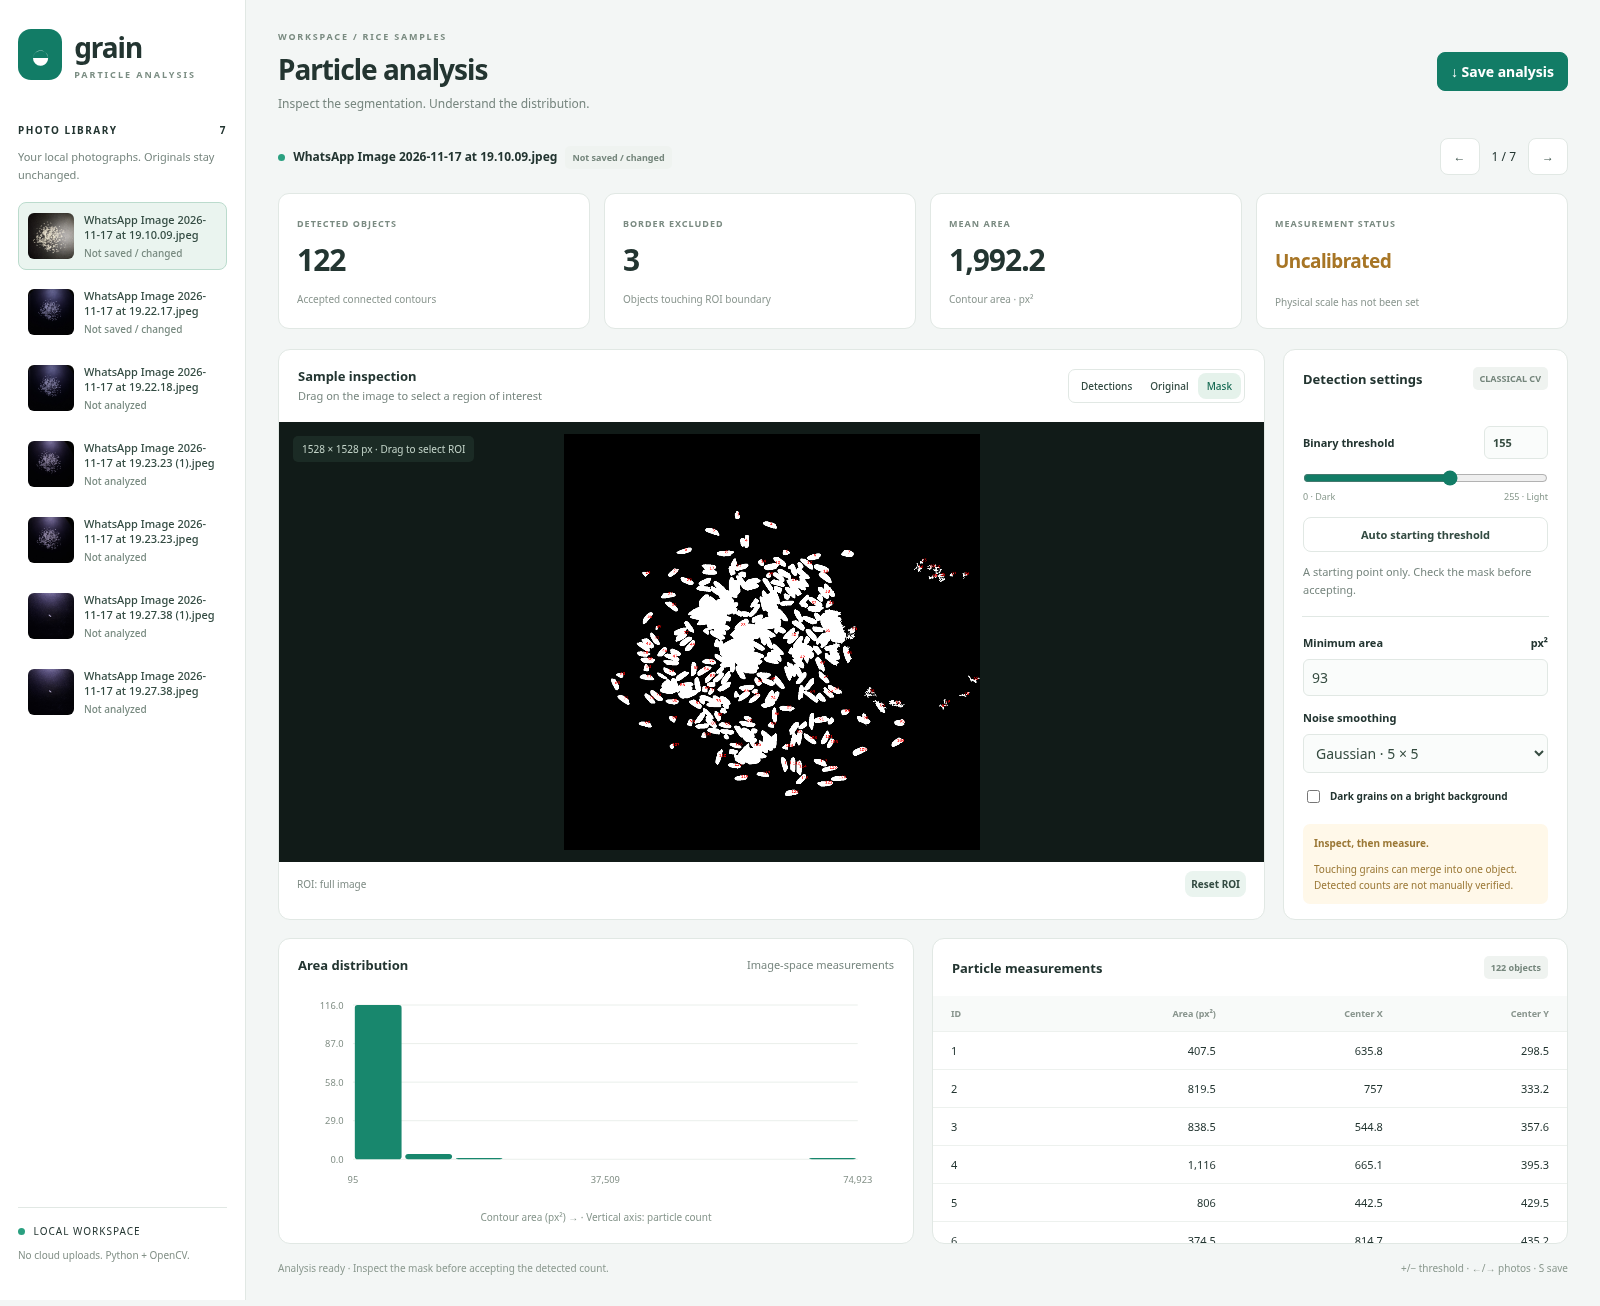
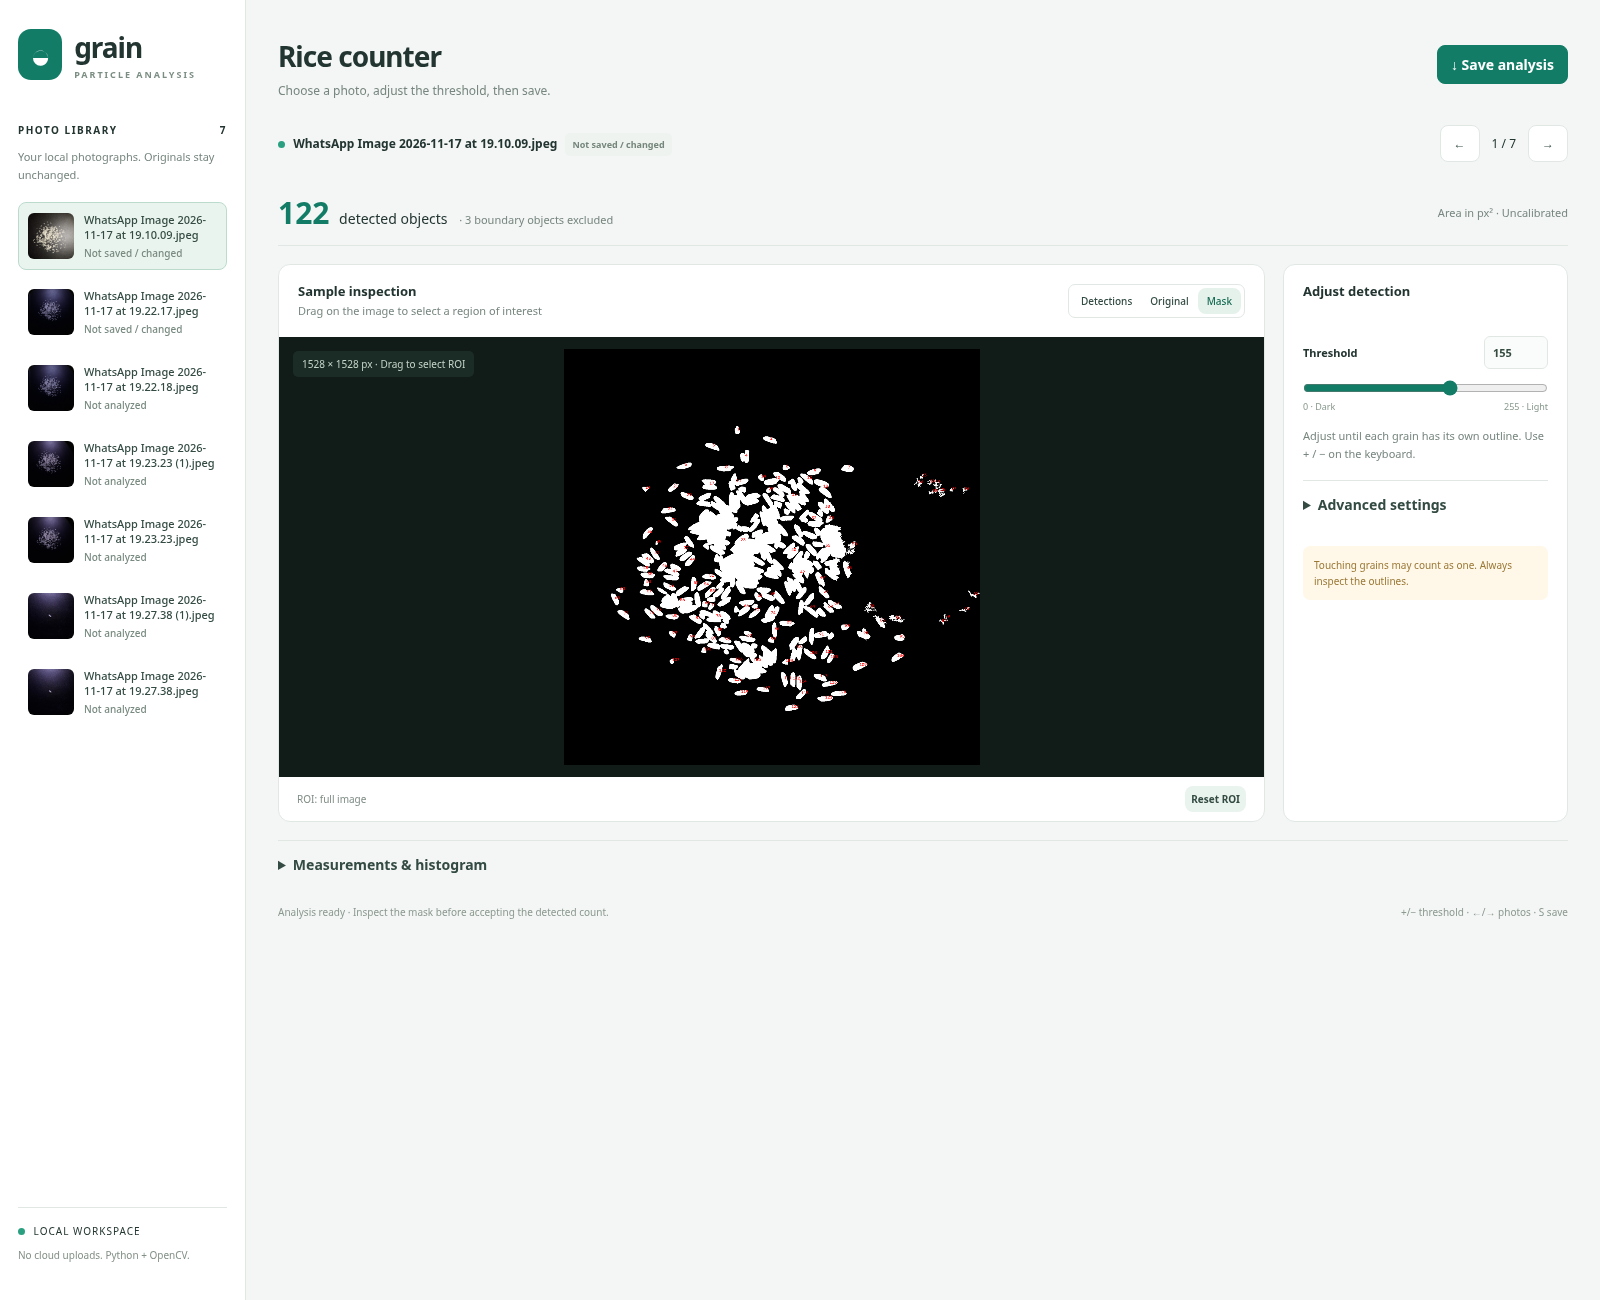
Enhance browser smoke tests and update web interface for rice counter functionality

diff --git a/Project/web/style.css b/Project/web/style.css
@@ -1,1 +1,13 @@
+.count-summary{display:flex;align-items:center;justify-content:space-between;gap:12px;flex-wrap:wrap;margin-bottom:18px;padding:12px 0;border-bottom:1px solid #e1e8e4}
+.count-summary strong{font-size:30px;color:#127c66;margin-right:6px}
+.count-summary .small{margin-left:8px}
+details>summary{cursor:pointer;font-weight:600;padding:14px 0;color:#334b42}
+summary:focus-visible{outline:3px solid #75c9b5;outline-offset:2px}
+.controls details{margin:18px 19px 0;border-top:1px solid #e1e8e4}
+.advanced-fields>label{display:block;font-size:11px;font-weight:600;margin:14px 0 9px}
+.advanced-fields>input,.advanced-fields>select,.advanced-fields>.wide{width:100%}
+.advanced-fields .checkbox{display:flex;align-items:center}
+.measurement-details{margin-top:18px;border-top:1px solid #e1e8e4}
+.measurement-details>.small{margin:0 0 12px}
+.measurement-details .analysis-grid{margin-top:0}
 :root{font-family:Inter,ui-sans-serif,system-ui,sans-serif;color:#233531;background:#f3f6f5;font-size:14px;--accent:#127c66;--line:#e1e8e4}*{box-sizing:border-box}body{margin:0;display:flex}button,input,select{font:inherit}button{cursor:pointer;background:white;border:1px solid var(--line);border-radius:8px;padding:9px 13px;color:#334b42;font-weight:600}button:hover{background:#eaf4ef}button:disabled{opacity:.45;cursor:wait}button:focus-visible,input:focus-visible,select:focus-visible,canvas:focus-visible{outline:3px solid #75c9b5;outline-offset:2px}.primary{background:var(--accent);color:white;border-color:var(--accent)}.primary:hover{background:#096451}.sidebar{width:246px;flex-shrink:0;padding:28px 18px;background:#fff;border-right:1px solid var(--line);height:100vh;position:sticky;top:0;display:flex;flex-direction:column}.brand{display:flex;align-items:center;gap:12px;font-weight:750;font-size:28px;letter-spacing:-1px;margin-bottom:42px}.mark{background:var(--accent);color:white;border-radius:13px;padding:2px 12px;font-size:35px}.sub{display:block;font-size:9px;letter-spacing:2px;color:#7c8e84;margin-top:2px}.library-heading{font-size:10px;letter-spacing:1.5px;font-weight:750;display:flex;justify-content:space-between}.muted{color:#77867f}.small{font-size:11px;line-height:1.6}nav{overflow:auto;flex:1;margin-top:8px}.photo{width:100%;display:flex;align-items:center;text-align:left;gap:10px;padding:9px;margin-bottom:8px;border-color:transparent;font-weight:500}.photo.selected{background:#eaf4ef;border-color:#bbdbcd}.photo img{width:46px;height:46px;object-fit:cover;border-radius:6px;background:#12231c}.photo .name{display:block;font-size:11px;word-break:break-word}.photo .state{display:block;font-size:10px;color:#788a80;margin-top:4px}.sidebar-note{font-size:10px;letter-spacing:1px;padding-top:16px;border-top:1px solid var(--line)}.sidebar-note p{font-size:10px;color:#839087;letter-spacing:0}.dot{display:inline-block;width:7px;height:7px;background:#2aa080;border-radius:50%;margin-right:5px}main{padding:30px 32px;width:calc(100% - 246px);max-width:1800px}header{display:flex;justify-content:space-between;align-items:center;margin-bottom:26px}.eyebrow{font-size:9px;letter-spacing:1.8px;color:#7a8b81;font-weight:650}h1{font-size:28px;letter-spacing:-1px;margin:7px 0}header p{margin:0;font-size:12px}.photo-bar{display:flex;align-items:center;justify-content:space-between;margin-bottom:18px;font-size:12px;gap:10px}.photo-bar strong{word-break:break-word}.photo-bar>div:last-child{display:flex;align-items:center;gap:12px;white-space:nowrap}.badge{font-size:9px;font-weight:650;background:#eff3f0;color:#75867c;border-radius:5px;padding:5px 7px;margin-left:8px;white-space:nowrap}.metrics{display:grid;grid-template-columns:repeat(4,1fr);gap:14px;margin-bottom:20px}.metrics article{background:white;border:1px solid var(--line);border-radius:11px;padding:18px}.metrics article>span{font-size:9px;letter-spacing:1px;color:#7b8b82;font-weight:700}.metrics strong{display:block;font-size:30px;font-weight:650;letter-spacing:-1px;margin:8px 0}.metrics small{font-size:10px;color:#8a968f}.metrics .calibration{font-size:19px;color:#a77525;letter-spacing:-.5px;margin:17px 0}.workspace{display:grid;grid-template-columns:minmax(0,1fr) 285px;gap:18px}.panel{background:white;border:1px solid var(--line);border-radius:12px;overflow:hidden}.panel-heading{display:flex;align-items:center;justify-content:space-between;padding:17px 19px;gap:10px}h2{margin:0;font-size:13px;font-weight:650}.tabs{display:flex;border:1px solid var(--line);padding:3px;border-radius:7px}.tabs button{border:0;padding:6px 9px;font-size:10px;font-weight:500}.tabs button.active{background:#e5f2eb;color:#176b54}.image-stage{height:440px;background:#111b18;display:flex;align-items:center;justify-content:center;position:relative;padding:12px}canvas{max-width:100%;max-height:100%;object-fit:contain;touch-action:none;cursor:crosshair}#imageHint{position:absolute;top:14px;left:14px;color:#c3d4c9;background:#1e3029c9;padding:6px 9px;border-radius:5px;font-size:10px;pointer-events:none}.viewer-footer{display:flex;align-items:center;justify-content:space-between;padding:9px 18px;color:#7f8c85;font-size:10px}.viewer-footer button{font-size:10px;border:0;padding:6px}.controls{padding-bottom:15px}.controls>.panel-heading{padding-bottom:22px}.controls>label,.controls>input,.controls>select,.controls>button,.controls>p,.controls>.range-labels,.controls>.tip{margin-left:19px;margin-right:19px}.controls>label{display:flex;justify-content:space-between;align-items:center;font-size:11px;font-weight:600;margin-bottom:9px;margin-top:14px}.controls>input:not([type=checkbox]),.controls>select{width:calc(100% - 38px)}input[type=number],select{border:1px solid var(--line);border-radius:6px;padding:8px;background:#fafcfb;color:#364c41}#thresholdNumber{width:64px;font-size:11px}input[type=range]{accent-color:var(--accent);cursor:pointer}.range-labels{display:flex;justify-content:space-between;font-size:9px;color:#88998d;margin-bottom:14px}.wide{width:calc(100% - 38px);font-size:11px}.controls hr{border:0;border-top:1px solid var(--line);margin:18px}.checkbox{justify-content:flex-start!important;gap:7px;font-size:10px!important;line-height:1.5}.checkbox input{accent-color:var(--accent)}.tip{background:#fff8e9;color:#9b7836;border-radius:7px;padding:11px;font-size:10px;line-height:1.6;margin-top:18px}.tip p{margin-bottom:0}.analysis-grid{display:grid;grid-template-columns:1fr 1fr;gap:18px;margin-top:18px}#histogram{width:100%;height:215px;padding:0 18px}.chart-label{font-size:10px;color:#85958b;text-align:center;margin:0 0 16px}.table-scroll{height:247px;overflow:auto}table{width:100%;border-collapse:collapse;font-size:11px}th{text-align:right;color:#89958e;background:#f8faf9;position:sticky;top:0;font-size:9px;font-weight:600}td,th{padding:11px 18px;border-bottom:1px solid #edf1ee}td{text-align:right;font-variant-numeric:tabular-nums}td:first-child,th:first-child{text-align:left}footer{display:flex;justify-content:space-between;gap:15px;font-size:10px;color:#8b998f;margin-top:17px;line-height:1.5}#status.error{color:#b34d32}#status.busy{color:var(--accent)}@media(max-width:1100px){.sidebar{width:200px}main{width:calc(100% - 200px);padding:22px 18px}.workspace{grid-template-columns:minmax(0,1fr) 250px}.panel-heading{flex-wrap:wrap}.metrics{gap:8px}.metrics article{padding:12px}.image-stage{height:400px}}@media(max-width:800px){body{display:block}.sidebar{position:static;width:100%;height:auto;padding:16px}.brand{margin-bottom:15px}nav{display:flex;max-height:120px}.photo{min-width:180px}.sidebar-note{display:none}main{width:100%;padding:16px}.workspace,.analysis-grid{grid-template-columns:1fr}.metrics{grid-template-columns:1fr 1fr}header{gap:15px}.photo-bar{flex-wrap:wrap}footer{flex-wrap:wrap}}

diff --git a/Project/web/index.html b/Project/web/index.html
@@ -4,11 +4,11 @@
 <aside class="sidebar"><div class="brand"><span class="mark">◒</span><div>grain<span class="sub">PARTICLE ANALYSIS</span></div></div>
 <div class="library-heading">PHOTO LIBRARY <span id="photoCount">0</span></div><p class="muted small">Your local photographs. Originals stay unchanged.</p><nav id="photos" aria-label="Photo library"></nav>
 <div class="sidebar-note"><span class="dot"></span> LOCAL WORKSPACE<p>No cloud uploads. Python + OpenCV.</p></div></aside>
-<main><header><div><div class="eyebrow">WORKSPACE / RICE SAMPLES</div><h1>Particle analysis</h1><p class="muted">Inspect the segmentation. Understand the distribution.</p></div><button id="save" class="primary" disabled>↓ Save analysis</button></header>
+<main><header><div><h1>Rice counter</h1><p class="muted">Choose a photo, adjust the threshold, then save.</p></div><button id="save" class="primary" disabled>↓ Save analysis</button></header>
 <div class="photo-bar"><div><span class="dot"></span> <strong id="filename">Loading photographs…</strong><span id="saveState" class="badge">Not saved</span></div><div><button id="previous" aria-label="Previous photo">←</button><span id="position"></span><button id="next" aria-label="Next photo">→</button></div></div>
-<section class="metrics" aria-label="Analysis summary"><article><span>DETECTED OBJECTS</span><strong id="count">—</strong><small>Accepted connected contours</small></article><article><span>BORDER EXCLUDED</span><strong id="border">—</strong><small>Objects touching ROI boundary</small></article><article><span>MEAN AREA</span><strong id="mean">—</strong><small>Contour area · px²</small></article><article><span>MEASUREMENT STATUS</span><strong class="calibration">Uncalibrated</strong><small>Physical scale has not been set</small></article></section>
+<section class="count-summary" aria-label="Analysis summary"><div><strong id="count">—</strong> detected objects <span class="muted small">· <span id="border">—</span> boundary objects excluded</span></div><span class="muted small">Area in px² · Uncalibrated</span></section>
 <div class="workspace"><section class="panel viewer"><div class="panel-heading"><div><h2>Sample inspection</h2><span class="muted small">Drag on the image to select a region of interest</span></div><div class="tabs" role="group" aria-label="Image view"><button class="active" data-view="overlay">Detections</button><button data-view="original">Original</button><button data-view="mask_numbered">Mask</button></div></div><div class="image-stage"><canvas id="viewer" aria-label="Rice image; drag to select ROI"></canvas><span id="imageHint">Loading image…</span></div><div class="viewer-footer"><span id="roiLabel">ROI: full image</span><button id="reset">Reset ROI</button></div></section>
-<section class="panel controls"><div class="panel-heading"><h2>Detection settings</h2><span class="badge">CLASSICAL CV</span></div><label for="threshold">Binary threshold <input id="thresholdNumber" aria-label="Threshold value" type="number" min="0" max="255" value="127"></label><input id="threshold" type="range" min="0" max="255" value="127"><div class="range-labels"><span>0 · Dark</span><span>255 · Light</span></div><button id="auto" class="wide">Auto starting threshold</button><p class="muted small">A starting point only. Check the mask before accepting.</p><hr><label for="minimum">Minimum area <span>px²</span></label><input id="minimum" type="number" min="0" step="10" value="374"><label for="blur">Noise smoothing</label><select id="blur"><option value="0">None</option><option value="3">Gaussian · 3 × 3</option><option value="5" selected>Gaussian · 5 × 5</option><option value="7">Gaussian · 7 × 7</option></select><label class="checkbox"><input type="checkbox" id="invert"> Dark grains on a bright background</label><div class="tip"><strong>Inspect, then measure.</strong><p>Touching grains can merge into one object. Detected counts are not manually verified.</p></div></section></div>
-<div class="analysis-grid"><section class="panel"><div class="panel-heading"><h2>Area distribution</h2><span class="muted small">Image-space measurements</span></div><svg id="histogram" viewBox="0 0 600 230" role="img" aria-label="Histogram of particle contour areas"></svg><p class="chart-label">Contour area (px²) → · Vertical axis: particle count</p></section><section class="panel"><div class="panel-heading"><h2>Particle measurements</h2><span id="rowCount" class="badge">0 objects</span></div><div class="table-scroll"><table><thead><tr><th>ID</th><th>Area (px²)</th><th>Center X</th><th>Center Y</th></tr></thead><tbody id="results"></tbody></table></div></section></div>
+<section class="panel controls"><div class="panel-heading"><h2>Adjust detection</h2></div><label for="threshold">Threshold <input id="thresholdNumber" aria-label="Threshold value" type="number" min="0" max="255" value="127"></label><input id="threshold" type="range" min="0" max="255" value="127"><div class="range-labels"><span>0 · Dark</span><span>255 · Light</span></div><p class="muted small">Adjust until each grain has its own outline. Use + / − on the keyboard.</p><details id="advanced"><summary>Advanced settings</summary><div class="advanced-fields"><button id="auto" class="wide">Auto starting threshold</button><p class="muted small">A starting point only. Check the mask.</p><label for="minimum">Minimum area (px²)</label><input id="minimum" type="number" min="0" step="10" value="374"><label for="blur">Noise smoothing</label><select id="blur"><option value="0">None</option><option value="3">Gaussian · 3 × 3</option><option value="5" selected>Gaussian · 5 × 5</option><option value="7">Gaussian · 7 × 7</option></select><label class="checkbox"><input type="checkbox" id="invert"> Dark grains on a bright background</label></div></details><div class="tip">Touching grains may count as one. Always inspect the outlines.</div></section></div>
+<details id="measurements" class="measurement-details"><summary>Measurements &amp; histogram</summary><p class="muted small">Mean contour area: <strong id="mean">—</strong> px² · No physical calibration</p><div class="analysis-grid"><section class="panel"><div class="panel-heading"><h2>Area distribution</h2><span class="muted small">Image-space measurements</span></div><svg id="histogram" viewBox="0 0 600 230" role="img" aria-label="Histogram of particle contour areas"></svg><p class="chart-label">Contour area (px²) → · Vertical axis: particle count</p></section><section class="panel"><div class="panel-heading"><h2>Particle measurements</h2><span id="rowCount" class="badge">0 objects</span></div><div class="table-scroll"><table><thead><tr><th>ID</th><th>Area (px²)</th><th>Center X</th><th>Center Y</th></tr></thead><tbody id="results"></tbody></table></div></section></div></details>
 <footer><span id="status" role="status" aria-live="polite">Connecting to local analysis server…</span><span>+/− threshold · ←/→ photos · S save</span></footer>
 </main><script src="/app.js"></script></body></html>

diff --git a/Project/browser_smoke.py b/Project/browser_smoke.py
@@ -13,7 +13,19 @@ def main():
         page.goto("http://127.0.0.1:8765")
         page.wait_for_function("document.querySelector('#status').textContent.startsWith('Analysis ready')")
         assert page.locator(".photo").count() == 7
+        assert not page.locator("#advanced").evaluate("el => el.open")
+        assert not page.locator("#measurements").evaluate("el => el.open")
+        assert page.locator("#threshold").is_visible()
+        assert not page.locator("#minimum").is_visible()
+        assert not page.locator("#histogram").is_visible()
+        page.locator("#advanced > summary").click()
+        assert page.locator("#minimum").is_visible()
         assert page.locator("#minimum").input_value() == "93"
+        page.locator("#advanced > summary").click()
+        page.locator("#measurements > summary").click()
+        assert page.locator("#histogram").is_visible()
+        assert page.locator("#results").is_visible()
+        page.locator("#measurements > summary").click()
         initial = page.locator("#thresholdNumber").input_value()
         page.locator("h1").click()
         page.keyboard.press("+")
@@ -43,7 +55,7 @@ def main():
         page.set_viewport_size({"width":390,"height":844})
         assert page.evaluate("document.documentElement.scrollWidth <= window.innerWidth")
         assert not errors, errors
-        print("Browser PASS: photos, keyboard, settings retention, scaled ROI, mask tab, save, reset, mobile width; no JS errors")
+        print("Browser PASS: collapsed details, expandable controls and measurements, photos, keyboard, settings retention, scaled ROI, mask tab, save, reset, mobile width; no JS errors")
         browser.close()
 
 

diff --git a/Project/test_web_app.py b/Project/test_web_app.py
@@ -31,7 +31,7 @@ class WebTests(unittest.TestCase):
                 return urlopen(Request(address + path, data=json.dumps(body).encode() if body is not None else None, headers=headers))
 
             try:
-                self.assertIn(b"Particle analysis", request("/").read())
+                self.assertIn(b"Rice counter", request("/").read())
                 self.assertEqual(len(json.load(request("/api/photos"))["photos"]), 1)
                 body = dict(id=0, threshold=127, min_area=30, blur=0, roi=None, invert=False)
                 data = json.load(request("/api/analyze", body))
